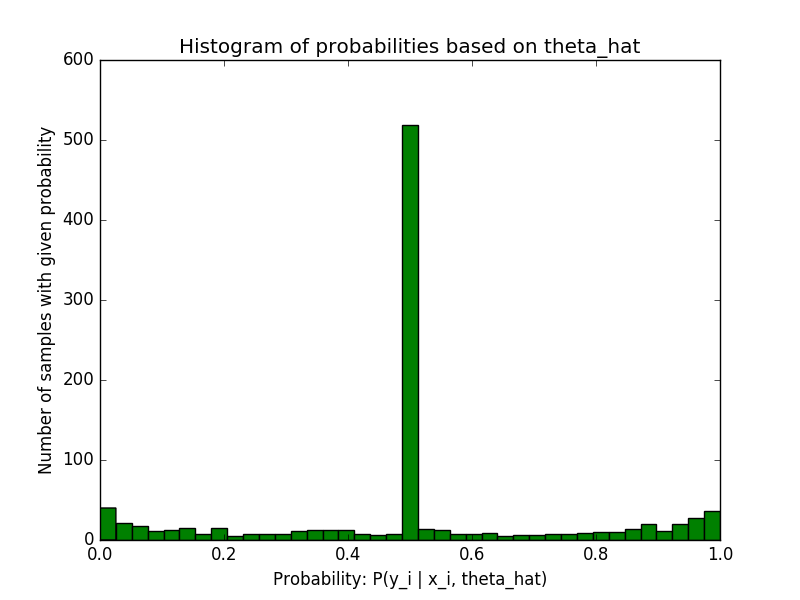
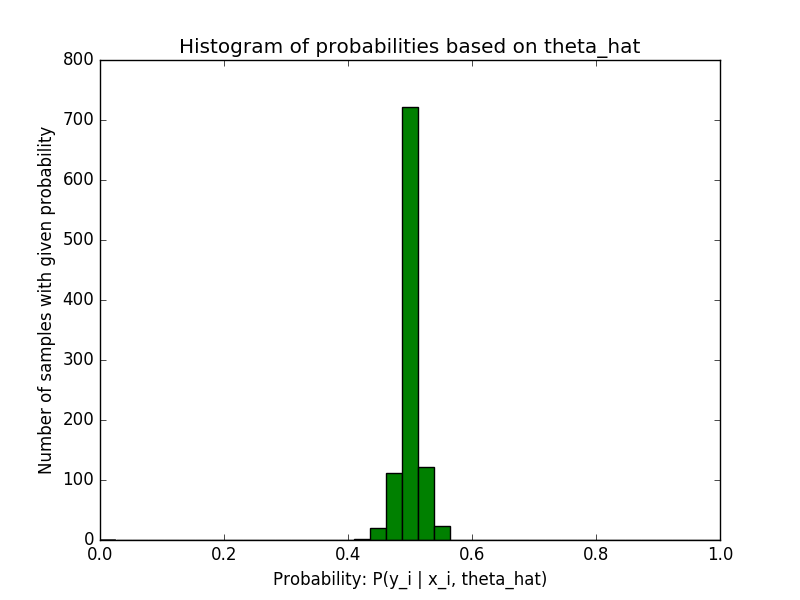
almost there

diff --git a/hw2/hw2.tex b/hw2/hw2.tex
@@ -5,7 +5,7 @@
 \usepackage{graphics}
 \usepackage{graphicx}
 \usepackage{subcaption}
-\usepackage[colorlinks]{hyperref}
+\usepackage{hyperref}
 \usepackage{changepage}
 
 \usepackage{listings}
@@ -99,9 +99,7 @@ y=
 \end{figure}
 
 (c) 
-{\color{red} How does the MSE behave as a function of D and why?}
-With the degree n-1 fit, we get (approximately) zero mean-squared error since the function fits exactly to every data point. 
-{\color{red}What happens if you try to fit a polynomial of degree n? Why? To fit a polynomial of degree n, we will be solving $X\alpha = y$, where $X^{n~x~n}$.
+With the degree n-1 fit, we get (approximately) zero mean-squared error since the function fits exactly to every data point. What happens if you try to fit a polynomial of degree n? Why? To fit a polynomial of degree n, we will be solving $X\alpha = y$, where $X^{n~x~n}$.
 \[
 	\begin{bmatrix}
 	1 & t_{1} & t^2_{1} & ... & t^n_{1}\\
@@ -126,9 +124,9 @@ With the degree n-1 fit, we get (approximately) zero mean-squared error since th
 		y_{n}\\
 	 \end{bmatrix}
 \]
-Using ordinary least-squares, we solve for $\alpha$ = $(X^{T}X)^{-1}X^{T}y$.}
+Using ordinary least-squares, we solve for $\alpha$ = $(X^{T}X)^{-1}X^{T}y$. We see there are more columns than rows, so the matrix $X^{T}X$ will not be invertible and the solution is not defined. 
 
-(d) Figure \ref{fig:2d} shows a plot of the degree $D \in {1,2,...n-1}$ versus the mean-squared error R(D) and $\tilde{R}$ when using the data in y.dat, yfresh.dat, and t.dat.  {\color{red}Why do you think that this plot is qualitatively different from the plot in part (b)?} Even though we are fitting D = n-1 degree polynomial to the new yfresh.dat data, the model was trained on y.dat and will approximate yfresh.dat with greater error than the data it was trained on and cannot be a perfect estimator. Thus, the error appears to plateu for the same values of D with yfresh.dat or y.dat but at a higher error value when using yfresh.dat. {\color{red}What does this tell you how the fitted degree D should be chosen?} Choose the minimal degree D after which the error doesn't change within some small $\epsilon$ bound. 
+(d) Figure \ref{fig:2d} shows a plot of the degree $D \in {1,2,...n-1}$ versus the mean-squared error R(D) and $\tilde{R}$ when using the data in y.dat, yfresh.dat, and t.dat. Even though we are fitting D = n-1 degree polynomial to the new yfresh.dat data, the model was trained on y.dat and will approximate yfresh.dat with greater error than the data it was trained on and cannot be a perfect estimator. Thus, the error appears to plateu for the same values of D with yfresh.dat or y.dat but at a higher error value when using yfresh.dat. Choose the minimal degree D after which the error doesn't change within some small $\epsilon$ bound. This ensures that you will not be overfitting. 
 \begin{figure}[h!]
   \centering
   \includegraphics[scale=0.5]{figs/2d.png}
@@ -136,10 +134,10 @@ Using ordinary least-squares, we solve for $\alpha$ = $(X^{T}X)^{-1}X^{T}y$.}
   \label{fig:2d}
 \end{figure}
 
-(e) Figure \ref{fig:2e} shows a plot of the degree $D \in {2,...9}$ versus the mean-squared error $\tilde{R}$ and F(D) when using the data in y.dat, yfresh.dat, and t.dat. {\color{red}How are the minimizing arguments of the two functions related?} {\color{red}Why is this an interesting observation?}
+(e) Figure \ref{fig:2e} shows a plot of the degree $D \in {2,...9}$ versus the mean-squared error $\tilde{R}$ and F(D) when using the data in y.dat, yfresh.dat, and t.dat. The minimizing arguments of the two functions related in that F(D) adds an extra cost on the number of degrees you are using. Since the lowest error for R(D) and $\tilde(R(D))$ functions when D=3, so we see a penalization of greater D's. 
 \begin{figure}[h!]
   \centering
-  \includegraphics[scale=0.5]{figs/2e.png}
+  \includegraphics[scale=0.5]{figs/2e_2.png}
   \caption{D vs. $\tilde{R}$ and F(D)}
   \label{fig:2e}
 \end{figure}
@@ -207,7 +205,7 @@ Substituting this back into our equation, we get:
 \[A^{*}(t) = -tlog(\frac{1}{t}-1) - log(1+e^{-log(\frac{1}{t}-1)}) = -tlog(\frac{1}{t}-1) + log(1-t)\]
 \[= tlog(t) - tlog(1-t) + log(1-t) = tlog(t) + (1-t)log(1-t)\]
 
-(ii) Gaussian random variable:
+(ii) Gaussian random variable (based on notes from class):
 \\
 \[p_{\eta}(y) = \frac{e^{\frac{-y^{2}}{2}}}{\sqrt{2\pi}}e^{yn - \frac{\eta^2}{2}}\]
 
@@ -292,21 +290,34 @@ Gaussian
 \[\hat{\eta} = \frac{\sum^{n}_{i=1}y_i}{n}\]
 
 (c)
+\begin{adjustwidth}{2.5em}{0pt}
+We know that $E(\bar{y}) = A'(\eta^{*})$ and by definition of MLE with respect to $\eta$, we have:
+\end{adjustwidth}
 
-We know that $E(\bar{y}) = A'(\eta^{*})$ and by definition of MLE, we have:
 \[max_{\eta}\left\{{\eta\sum^{n}_{i=1}{y_i}-nA(\eta)}\right\} = max_{\eta}\left\{{\eta\bar{y}-A(\eta)}\right\} = min_{\eta}\left\{{-\eta\bar{y}+A(\eta)}\right\}\]
 
+\begin{adjustwidth}{2.5em}{0pt}
 Thus, we know that as $n \rightarrow \infinity$, then $\bar{y} \rightarrow A'(\eta^{*})$. Additionally, we can add or subtract any terms to this equation that do not depend on $\eta$, since they are just constants. We can substitute this into the above equation to get:
+\end{adjustwidth}
 
 \[\hat{\eta} = min_{\eta}\left\{{-\eta A'(\eta^{*})+A(\eta)}\right\} = min_{\eta}\left\{{-\eta A'(\eta^{*})+A(\eta) + \eta^{*}A'(\eta^{*}) - A(\eta^{*})}\right\}\]
 
+\begin{adjustwidth}{2.5em}{0pt}
 After some rearranging of terms, we get the final equation:
+\end{adjustwidth}
 
 \[\hat{\eta}= min_{\eta}\left\{ A(\eta) - A(\eta^{*}) - A'(\eta^{*})(\eta - \eta^{*})\right\} \]
 
-(d) Assume A is strictly convex and that $\eta^{*}$ is the true parameter. The we can see that $\eta^{*}$ minimizes the MLE equation since we have:
+(d) 
+\begin{adjustwidth}{2.5em}{0pt}
+Assume A is strictly convex and that $\eta^{*}$ is the true parameter. The we can see that $\eta^{*}$ minimizes the MLE equation since we have:
+\end{adjustwidth}
+
 \[\eta^{*}= min_{\eta}\left\{ A(\eta^{*}) - A(\eta^{*}) - A'(\eta^{*})(\eta^{*} - \eta^{*})\right\} = 0\]
+
+\begin{adjustwidth}{2.5em}{0pt}
 Hence, $\eta^{*}$ ensures that the equation is minimized. 
+\end{adjustwidth}
 
 \end{problem}
 
@@ -314,29 +325,27 @@ Hence, $\eta^{*}$ ensures that the equation is minimized.
 \begin{problem}{2.4}
 \text{ }\\
 
-(a) Based on the definition of MLE in GLM as well as stochastic gradient, we can redefine the function $L(\theta)$, the gradient $\triangle^{t} L(\theta)$, and the $\tilde{\theta}^{t+1}$ update step as:
+(a) Based on the definition of MLE in GLM as well as stochastic gradient from the course reader, the update step can be written with $\mu$ as the canoniucal response function as:
 
-\[L(\theta) = -y_{I}x^{T}_{I}\theta^{t} + A(x^{T}_{I}\theta^{t})\]
-\[\triangle^{t}L(\theta) = -y_{I}x^{T}_{I} + x^{T}_{I}A'(x^{T}_{I}\theta^{t})\]
-\[\tilde{\theta}^{t+1} = \hat{\theta}^{t} - \gamma^{t} \triangle^{t}L(I)\]
+\[\tilde{\theta}^{t+1} = \hat{\theta}^{t} + p(y_{n}-\mu^{t}_{n})x_{n}\]
 
 (b) Explicit updates for Possion and Logistic cases:
 
 Poisson
-\[A(t) = e^{t} \implies \tilde{\theta}^{t+1} = \hat{\theta}^{t} - \gamma^{t} x^{T}_{I}e^{x^{T}_{I}\theta^{t}}\]
+\[A(t) = e^{t} \implies \tilde{\theta}^{t+1} = \hat{\theta}^{t} + p(y_{n}-e^{x^{T}_{n} \theta^{t}})x_{n}\]
 
 Logistic
-\[A(t) = log(1+e^{t}) \implies \tilde{\theta}^{t+1} = \hat{\theta}^{t} - \gamma^{t} x^{T}_{I}(\frac{e^{x^{T}_{I}\theta^{t}}}{1+e^{x^{T}_{I}\theta^{t}}})\]
+\[A(t) = log(1+e^{t}) \implies \tilde{\theta}^{t+1} = \hat{\theta}^{t} + p(y_{n}-\frac{1}{1+e^{x^{T}_{I}\theta^{t}}})x_{n}\]
 
 (c) Figure \ref{fig:4c} shows a histogram plot of the probabilities $P[y_i | x_i;\hat{\theta}]$  based on fitted vector $\hat{\theta}$ and files Xone.dat and yone.dat.
 \begin{figure}[h!]
   \centering
-  \includegraphics[scale=0.5]{figs/4c.png}
+  \includegraphics[scale=0.5]{figs/4c_new.png}
   \caption{Histogram of probabilities using Xone.dat and yone.dat}
   \label{fig:4c}
 \end{figure}
 
-(d) Figure \ref{fig:4d} shows a histogram plot of the probabilities $P[y_i | x_i;\hat{\theta}]$  based on fitted vector $\hat{\theta}$ and files Xtwo.dat and ytwo.dat. {\color{red} The differences in Figure \ref{fig:4c} and \ref{fig:4d} are [~~~~~~~~~] and suggest about the accuracy of the fits.}
+(d) Figure \ref{fig:4d} shows a histogram plot of the probabilities $P[y_i | x_i;\hat{\theta}]$  based on fitted vector $\hat{\theta}$ and files Xtwo.dat and ytwo.dat.The differences in Figure \ref{fig:4c} and \ref{fig:4d} suggest that it is easier to separate the data in Figure \ref{fig:4c} into two clusters (leading to more accurate fit) than the data in Figure \ref{fig:4d} which is all centered around 0.5.
 \begin{figure}[h!]
   \centering
   \includegraphics[scale=0.5]{figs/4d.png}
@@ -352,32 +361,40 @@ Logistic
   \label{fig:4e}
 \end{figure}
 
-(f) In part (e), the fitted mean vectors are:
-\[\mu_{GMM1}=
+(f) In part (e), the fitted mean vectors and the $\hat{\theta}$:
+\[\mu_{Xone1label}=
 	\begin{bmatrix}
 		3.03708769\\
-		-3.03958106\\
-		0.07311787\\
-		-0.03310467\\
+		-3.03958106 
 	 \end{bmatrix}
-   \mu_{GMM2}=
+   \mu_{Xone0label}=
 	\begin{bmatrix}
-		2.96847677\\
-		3.01983729\\
-		-0.02951317\\
-		-0.06022483\\
+		2.9674205\\
+		3.02468416\\
 	 \end{bmatrix}
 \]
 
-\[\hat{\theta}_{Log1}=
+\[\mu_{Xtwo1label}=
 	\begin{bmatrix}
-		0.6304399\\
-		0.05635908\\
+		0.03544899\\
+		-0.09377857
 	 \end{bmatrix}
-   \hat{\theta}_{Log2}=
+   \mu_{Xtwo0label}=
 	\begin{bmatrix}
-		0.32693246\\
-		0.09650988\\
+		0.01322437\\
+		-0.00039517
+	 \end{bmatrix}
+\]
+
+\[\hat{\theta}_{LogXone}=
+	\begin{bmatrix}
+		0.03971547\\
+		-1.69052142\\
+	 \end{bmatrix}
+   \hat{\theta}_{LogXtwo}=
+	\begin{bmatrix}
+		-0.01176046\\
+		-0.02374169\\
 	 \end{bmatrix}
 \]
 
@@ -501,12 +518,12 @@ def stoch_gd(X, y, numIter, stepSize, epsilon):
     for i in range(numIter):
         I = np.random.randint(0,m)
 
-        extheta = np.exp((theta.T)*X[I])
+        # extheta = np.exp((theta.T)*X[I])
         # compute the gradient at the current location
-        g = -y[I]*X[I] + X[I]*extheta/(1+extheta)
+        g = y[I]*X[I] - X[I]*1.0/(1.0+np.exp(-(theta.T)*X[I]))
 
         # step in the direction of the gradient
-        theta2 = theta - (stepSize/(i+1))*g
+        theta2 = theta + (1.0/(i+1.0))*g
 
         if(np.dot(theta2-theta, theta2-theta) < epsilon):
             return theta
@@ -526,19 +543,22 @@ if __name__ == '__main__':
 
     (m,n) = np.shape(Xone)
     # take number of iterations to be number of examples
-    numIter = m
+    numIter = 10000
     epsilon = 0.0000000000001
     stepSize = 0.01
 
     # data set #1
     theta_hat1 = stoch_gd(Xone, yone, numIter, stepSize, epsilon)
-    e_yxtheta1 = np.exp(yone*np.dot(Xone,theta_hat1))
-    p_one = e_yxtheta1/(1+e_yxtheta1)
+    e_yxtheta1 = np.exp(-np.dot(Xone,theta_hat1))
+    p_one = 1.0/(1.0+e_yxtheta1)
 
     # data set #2
     theta_hat2 = stoch_gd(Xtwo, ytwo, numIter, stepSize, epsilon)
-    e_yxtheta2 = np.exp(ytwo*np.dot(Xtwo,theta_hat2))
-    p_two = e_yxtheta2/(1+e_yxtheta2)
+    e_yxtheta2 = np.exp(-np.dot(Xtwo,theta_hat2))
+    p_two = 1.0/(1.0+e_yxtheta2)
+
+    print theta_hat1
+    print theta_hat2
 
     bins = np.linspace(0, 1, 40)
 
@@ -548,7 +568,6 @@ if __name__ == '__main__':
     #plt.hist(p_one, bins)
     plt.hist(p_two, bins, facecolor='green')
     plt.show()
-
 \end{lstlisting}
 
 \begin{lstlisting}

diff --git a/hw2/stoch_gd.py b/hw2/stoch_gd.py
@@ -19,12 +19,12 @@ def stoch_gd(X, y, numIter, stepSize, epsilon):
     for i in range(numIter):
         I = np.random.randint(0,m)
 
-        extheta = np.exp((theta.T)*X[I])
+        # extheta = np.exp((theta.T)*X[I])
         # compute the gradient at the current location
-        g = -y[I]*X[I] + X[I]*extheta/(1+extheta)
+        g = y[I]*X[I] - X[I]*1.0/(1.0+np.exp(-(theta.T)*X[I]))
 
         # step in the direction of the gradient
-        theta2 = theta - (stepSize/(i+1))*g
+        theta2 = theta + (1.0/(i+1.0))*g
 
         if(np.dot(theta2-theta, theta2-theta) < epsilon):
             return theta
@@ -44,28 +44,29 @@ if __name__ == '__main__':
 
     (m,n) = np.shape(Xone)
     # take number of iterations to be number of examples
-    numIter = m
+    numIter = 10000
     epsilon = 0.0000000000001
     stepSize = 0.01
 
     # data set #1
     theta_hat1 = stoch_gd(Xone, yone, numIter, stepSize, epsilon)
-    e_yxtheta1 = np.exp(yone*np.dot(Xone,theta_hat1))
-    p_one = e_yxtheta1/(1+e_yxtheta1)
+    e_yxtheta1 = np.exp(-np.dot(Xone,theta_hat1))
+    p_one = 1.0/(1.0+e_yxtheta1)
 
     # data set #2
     theta_hat2 = stoch_gd(Xtwo, ytwo, numIter, stepSize, epsilon)
-    e_yxtheta2 = np.exp(ytwo*np.dot(Xtwo,theta_hat2))
-    p_two = e_yxtheta2/(1+e_yxtheta2)
+    e_yxtheta2 = np.exp(-np.dot(Xtwo,theta_hat2))
+    p_two = 1.0/(1.0+e_yxtheta2)
 
-    #print theta_hat1
-    #print theta_hat2
+    print theta_hat1
+    print theta_hat2
 
     bins = np.linspace(0, 1, 40)
 
     plt.title("Histogram of probabilities based on theta_hat")
     plt.xlabel("Probability: P(y_i | x_i, theta_hat)")
     plt.ylabel("Number of samples with given probability")
-    #plt.hist(p_one, bins)
+    plt.hist(p_one, bins)
+    plt.show()
     plt.hist(p_two, bins, facecolor='green')
     plt.show()

diff --git a/hw2/gmm.py b/hw2/gmm.py
@@ -16,14 +16,52 @@ def run_gmm(X, num_components):
     plt.title("2-component GMM for Xone and Xtwo datasets")
     plt.show()
 
+#returns two matrices, one with all one labels, and other with 0 labels
+def parse_data(X, y):
+    X_1 = []
+    X_0 = []
+
+    (m,n) = np.shape(X)
+    for i in range(m):
+        if y[i] == 1.0:
+            X_1.append(X[i])
+        else:
+            X_0.append(X[i])
+
+    return (X_1, X_0)
+
+def get_mean_cov(X):
+    m = np.mean(X, axis=0)
+    cov = np.cov(np.transpose(X))
+    return (m, cov)
 
 if __name__ == '__main__':
     Xone = np.loadtxt('data_problem2.4/Xone.dat')
     Xtwo = np.loadtxt('data_problem2.4/Xtwo.dat')
-
     yone = np.loadtxt('data_problem2.4/yone.dat')
     ytwo = np.loadtxt('data_problem2.4/ytwo.dat')
 
-    X = np.concatenate((Xone, Xtwo), axis=1)
+    (Xone1, Xone0) = parse_data(Xone, yone)
+    (Xtwo1, Xtwo0) = parse_data(Xtwo, ytwo)
 
-    run_gmm(X, 2)
+    print "Xone results"
+    (m1, c1) = get_mean_cov(Xone1)
+    (m0, c0) = get_mean_cov(Xone0)
+    print m1
+    print c1
+
+    print m0
+    print c0
+
+    print "Xtwo results"
+    (m21, c21) = get_mean_cov(Xtwo1)
+    (m20, c20) = get_mean_cov(Xtwo0)
+    print m21
+    print c21
+
+    print m20
+    print c20
+
+
+    #X = np.concatenate((Xone, Xtwo), axis=1)
+    #run_gmm(X, 2)

diff --git a/hw2/polyfit.py b/hw2/polyfit.py
@@ -72,11 +72,11 @@ def plot_MSE(D_vals, MSE_vals):
 	plt.show()
 
 # plot MSE vs degree for R(D) and F(D)
-def plot_MSE2(D_vals, MSE_vals_y1, MSE_vals_ytilde1):
+def plot_MSE3(D_vals, MSE_vals_R, MSE_vals_Rtilde, MSE_vals_F):
 	# visualize degree vs. MSE
-	plt.plot(D_vals, MSE_vals_y1, 'o-b', D_vals, MSE_vals_ytilde1, 'o-g')
+	plt.plot(D_vals, MSE_vals_R, 'o-b', D_vals, MSE_vals_Rtilde, 'o-g', D_vals, MSE_vals_F, 'o-r')
 	plt.title('Plot of the the mean-squared error vs. degree of polynomial')
-	plt.legend(['R(D)', 'R_tilde(D)'])
+	plt.legend(['R(D)', 'R_tilde(D)', 'F(D)'])
 	plt.xlabel('D values')
 	plt.ylabel('Mean-squared error')
 	plt.show()
@@ -106,4 +106,4 @@ if __name__ == "__main__":
 
 	#plot_MSE(D_vals1, MSE_vals_y1);
 	#plot_MSE2(D_vals1, MSE_vals_y1, MSE_vals_ytilde1)
-	plot_MSE2(D_vals2, MSE_vals_ytilde1, MSE_vals_y2)
+	plot_MSE3(D_vals2, MSE_vals_y1, MSE_vals_ytilde1, MSE_vals_y2)
